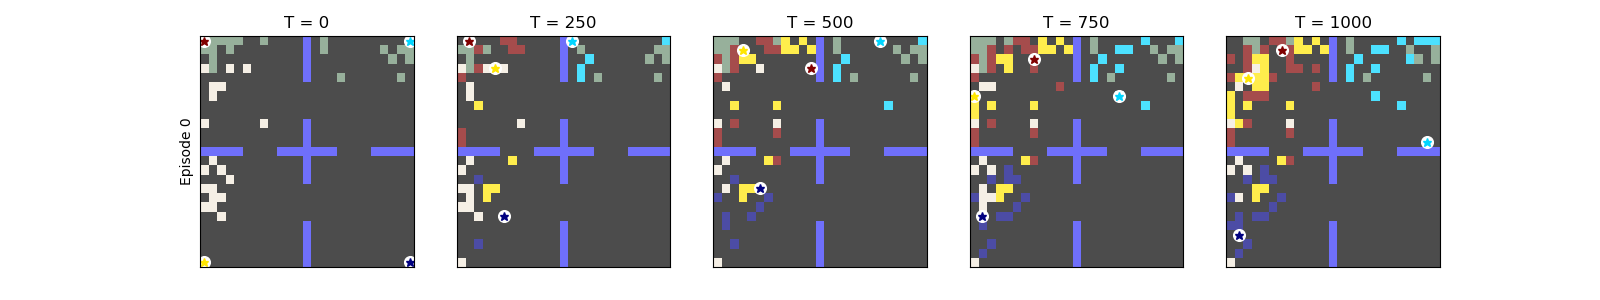
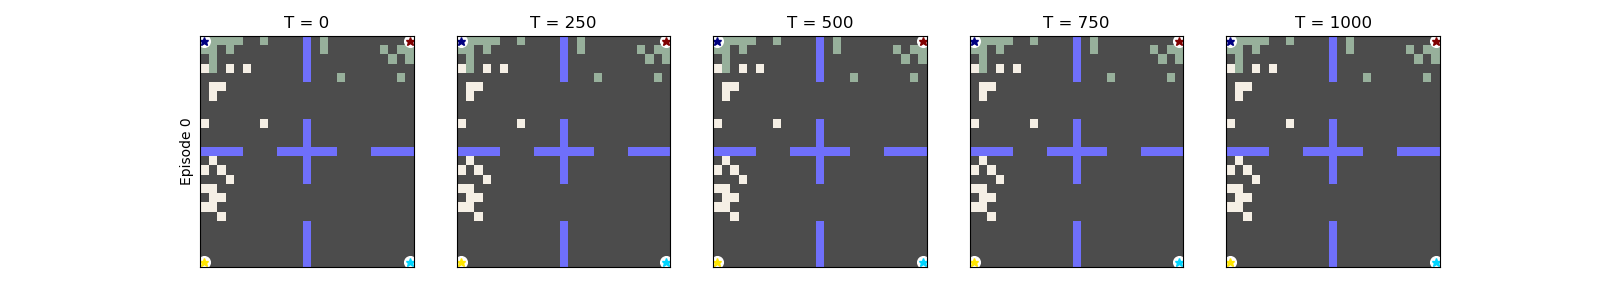
k

diff --git a/tutorials/utils/plotStuff.py b/tutorials/utils/plotStuff.py
@@ -5,9 +5,9 @@ from ai_economist.foundation.utils import load_episode_log
 import plotting
 import os
 
-base = "../rllib/phase1/dense_logs/"
-file_loc = "../rllib/phase1/ckpts/"
-log_path = os.path.join(base, "logs_0000000000486000/env000.lz4")
+base = "../rllib/phase2/dense_logs/"
+file_loc = "../rllib/phase2/ckpts/"
+log_path = os.path.join(base, "logs_0000000022728000/env000.lz4")
 dense_log = load_episode_log(log_path)
 (fig0, fig1, fig2), incomes, endows, c_trades, all_builds = plotting.breakdown(dense_log)
 fig = plotting.vis_world_range(dense_log, t0=0, tN=200, N=5)
